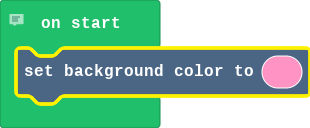
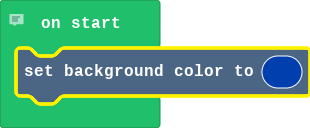
Update main.blocks, main.ts

Changed region(s): [[0.8419, 0.4375, 0.9871, 0.6875]]

diff --git a/main.ts b/main.ts
@@ -1,2 +1,2 @@
 // Don't forget to comment your code as you work!
-scene.setBackgroundColor(3)
+scene.setBackgroundColor(8)
